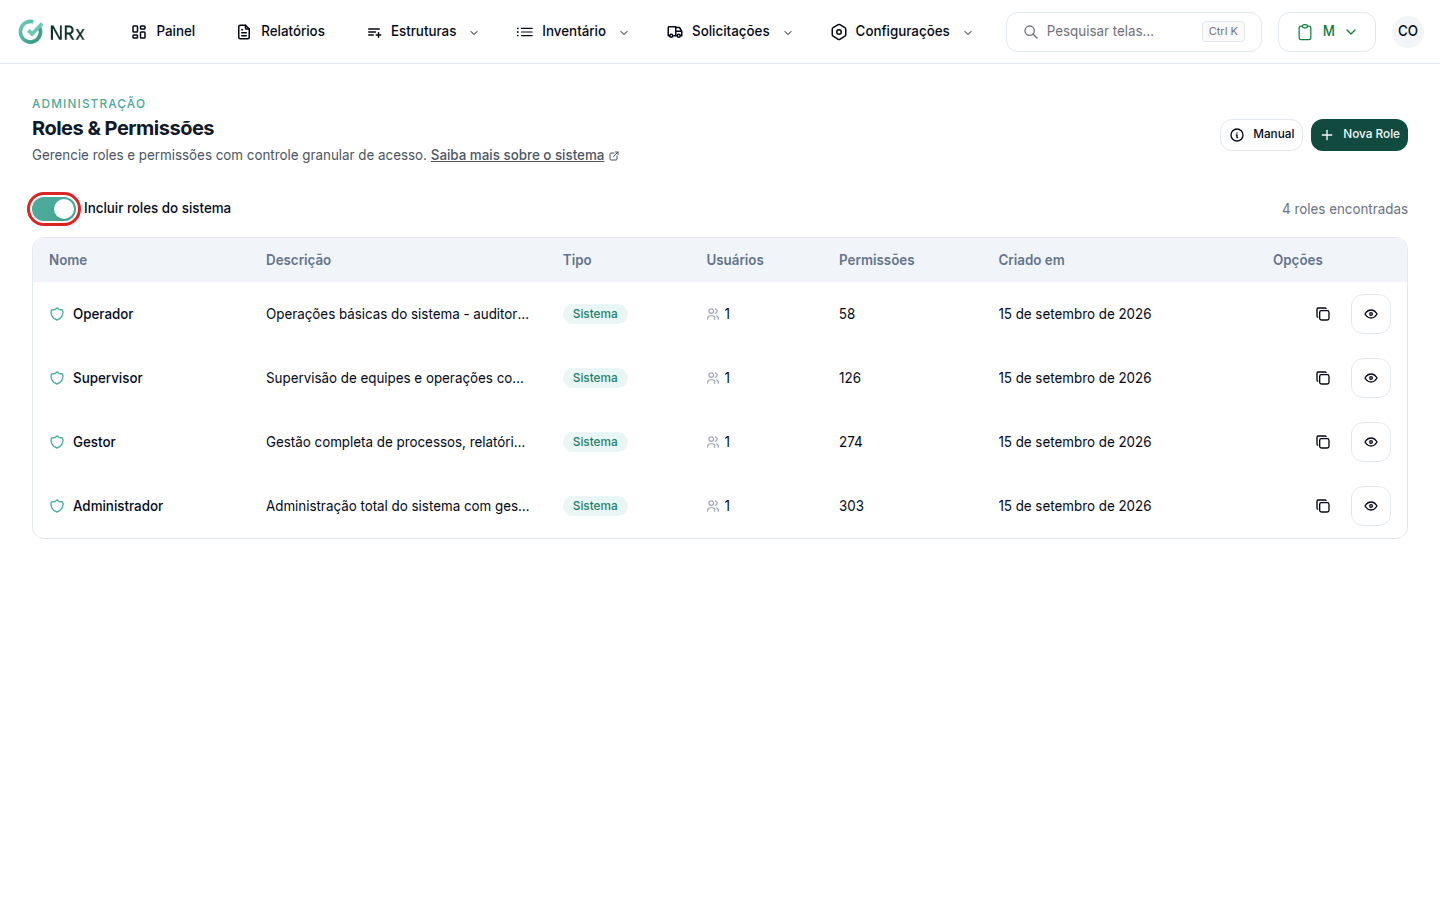
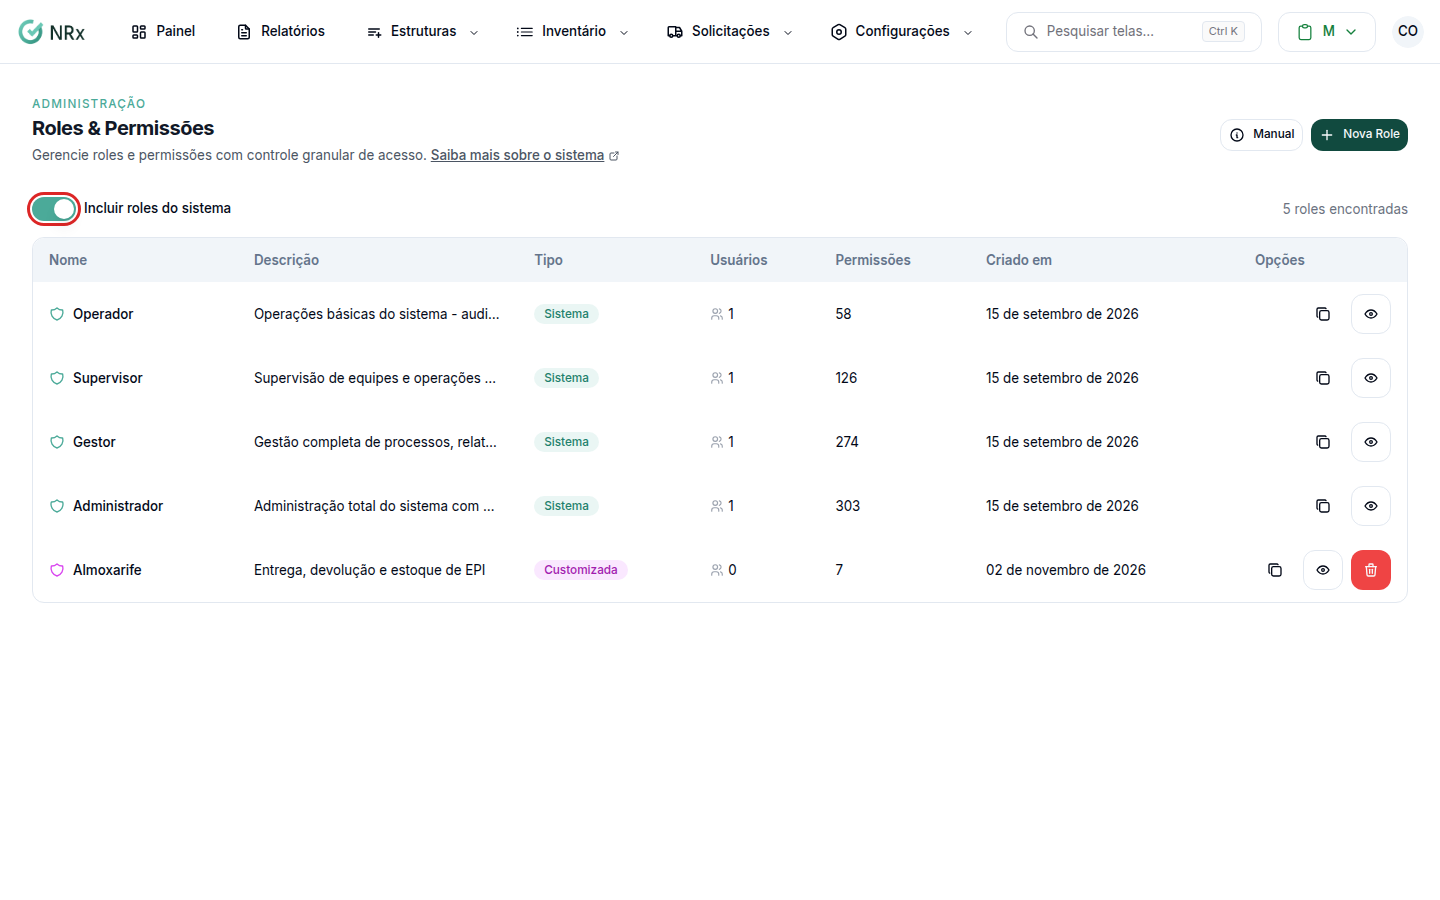
docs: mais prints de EPI, Treinamentos e CIPA; legenda das roles com o selo Customizada

diff --git a/epi/configuracoes-iniciais/usuarios/o-que-sao-roles.md b/epi/configuracoes-iniciais/usuarios/o-que-sao-roles.md
@@ -34,7 +34,7 @@ layout:
 * Uma **role** é um pacote de permissões. Você dá uma role ao usuário e ele ganha tudo o que está nela.
 * As roles ficam em **Configurações › Roles & Permissões** (no Treinamento, **Configurações › Roles e Permissões**), dentro de qualquer módulo.
 
-<figure><img src="../../.gitbook/assets/usuarios-roles-01.png" alt="Tela de roles com a chave Incluir roles do sistema ligada, mostrando as roles do sistema com o selo Sistema"><figcaption><p>Tela de roles</p></figcaption></figure>
+<figure><img src="../../.gitbook/assets/usuarios-roles-01.png" alt="Tela de roles com a chave Incluir roles do sistema ligada, mostrando roles com os selos Sistema e Customizada"><figcaption><p>Tela de roles</p></figcaption></figure>
 
 ## Quem pode o quê
 
